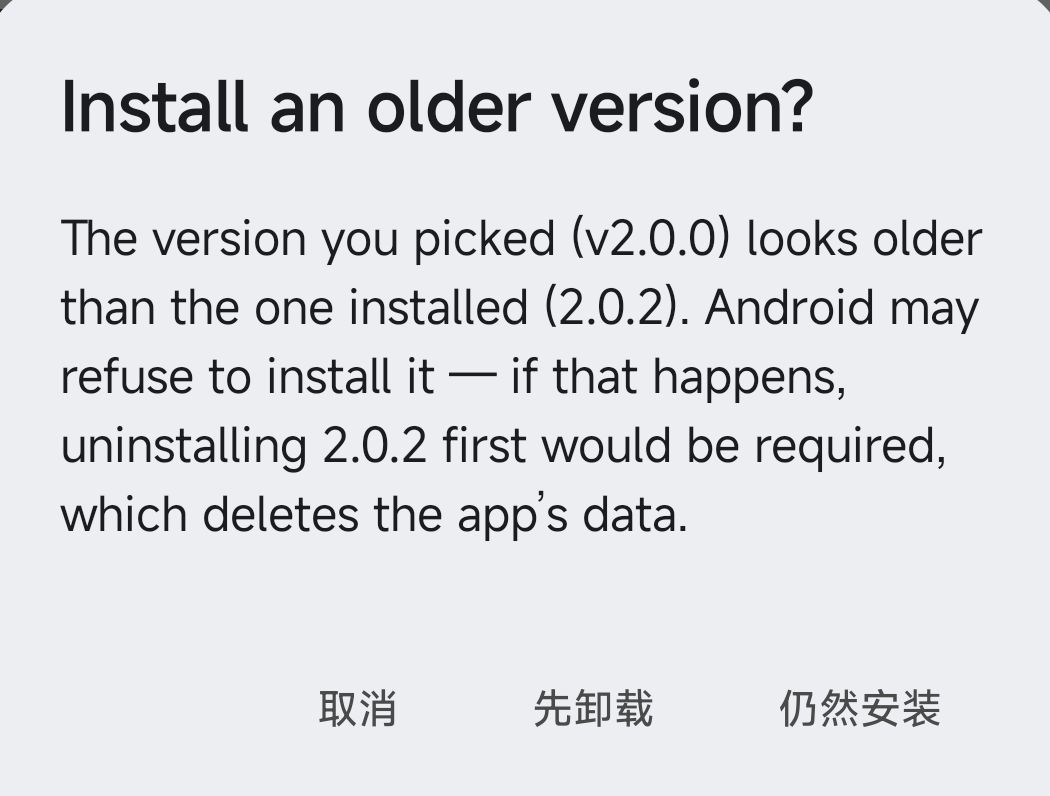
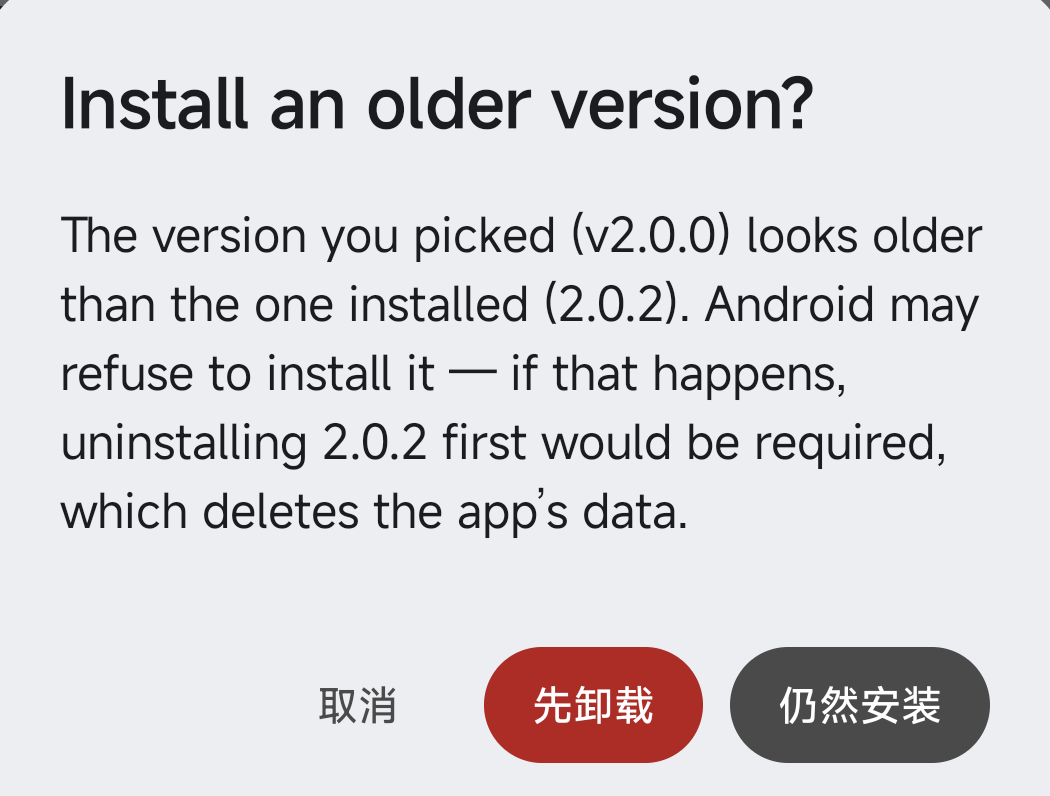
fix: mark uninstall red and give the primary action weight
Three same-looking text actions left the dialog unreadable: the irreversible
one carried no warning colour, and the action the dialog was opened for carried
no weight. Uninstall is now destructive red, Install anyway is filled — matching
the hierarchy of a confirmation rather than a flat menu. Screenshot updated.

diff --git a/feature/details/presentation/src/commonMain/kotlin/zed/rainxch/details/presentation/DetailsRoot.kt b/feature/details/presentation/src/commonMain/kotlin/zed/rainxch/details/presentation/DetailsRoot.kt
@@ -236,7 +236,7 @@ fun DetailsRoot(
                             viewModel.onAction(DetailsAction.UninstallApp)
                         },
                         label = stringResource(Res.string.uninstall_first),
-                        variant = KomiButtonVariant.Text,
+                        variant = KomiButtonVariant.Destructive,
                         size = KomiButtonSize.Sm,
                     )
                     KomiButton(
@@ -244,7 +244,7 @@ fun DetailsRoot(
                             viewModel.onAction(DetailsAction.OnConfirmDowngradeInstall)
                         },
                         label = stringResource(Res.string.install_anyway),
-                        variant = KomiButtonVariant.Text,
+                        variant = KomiButtonVariant.Primary,
                         size = KomiButtonSize.Sm,
                     )
                 }
